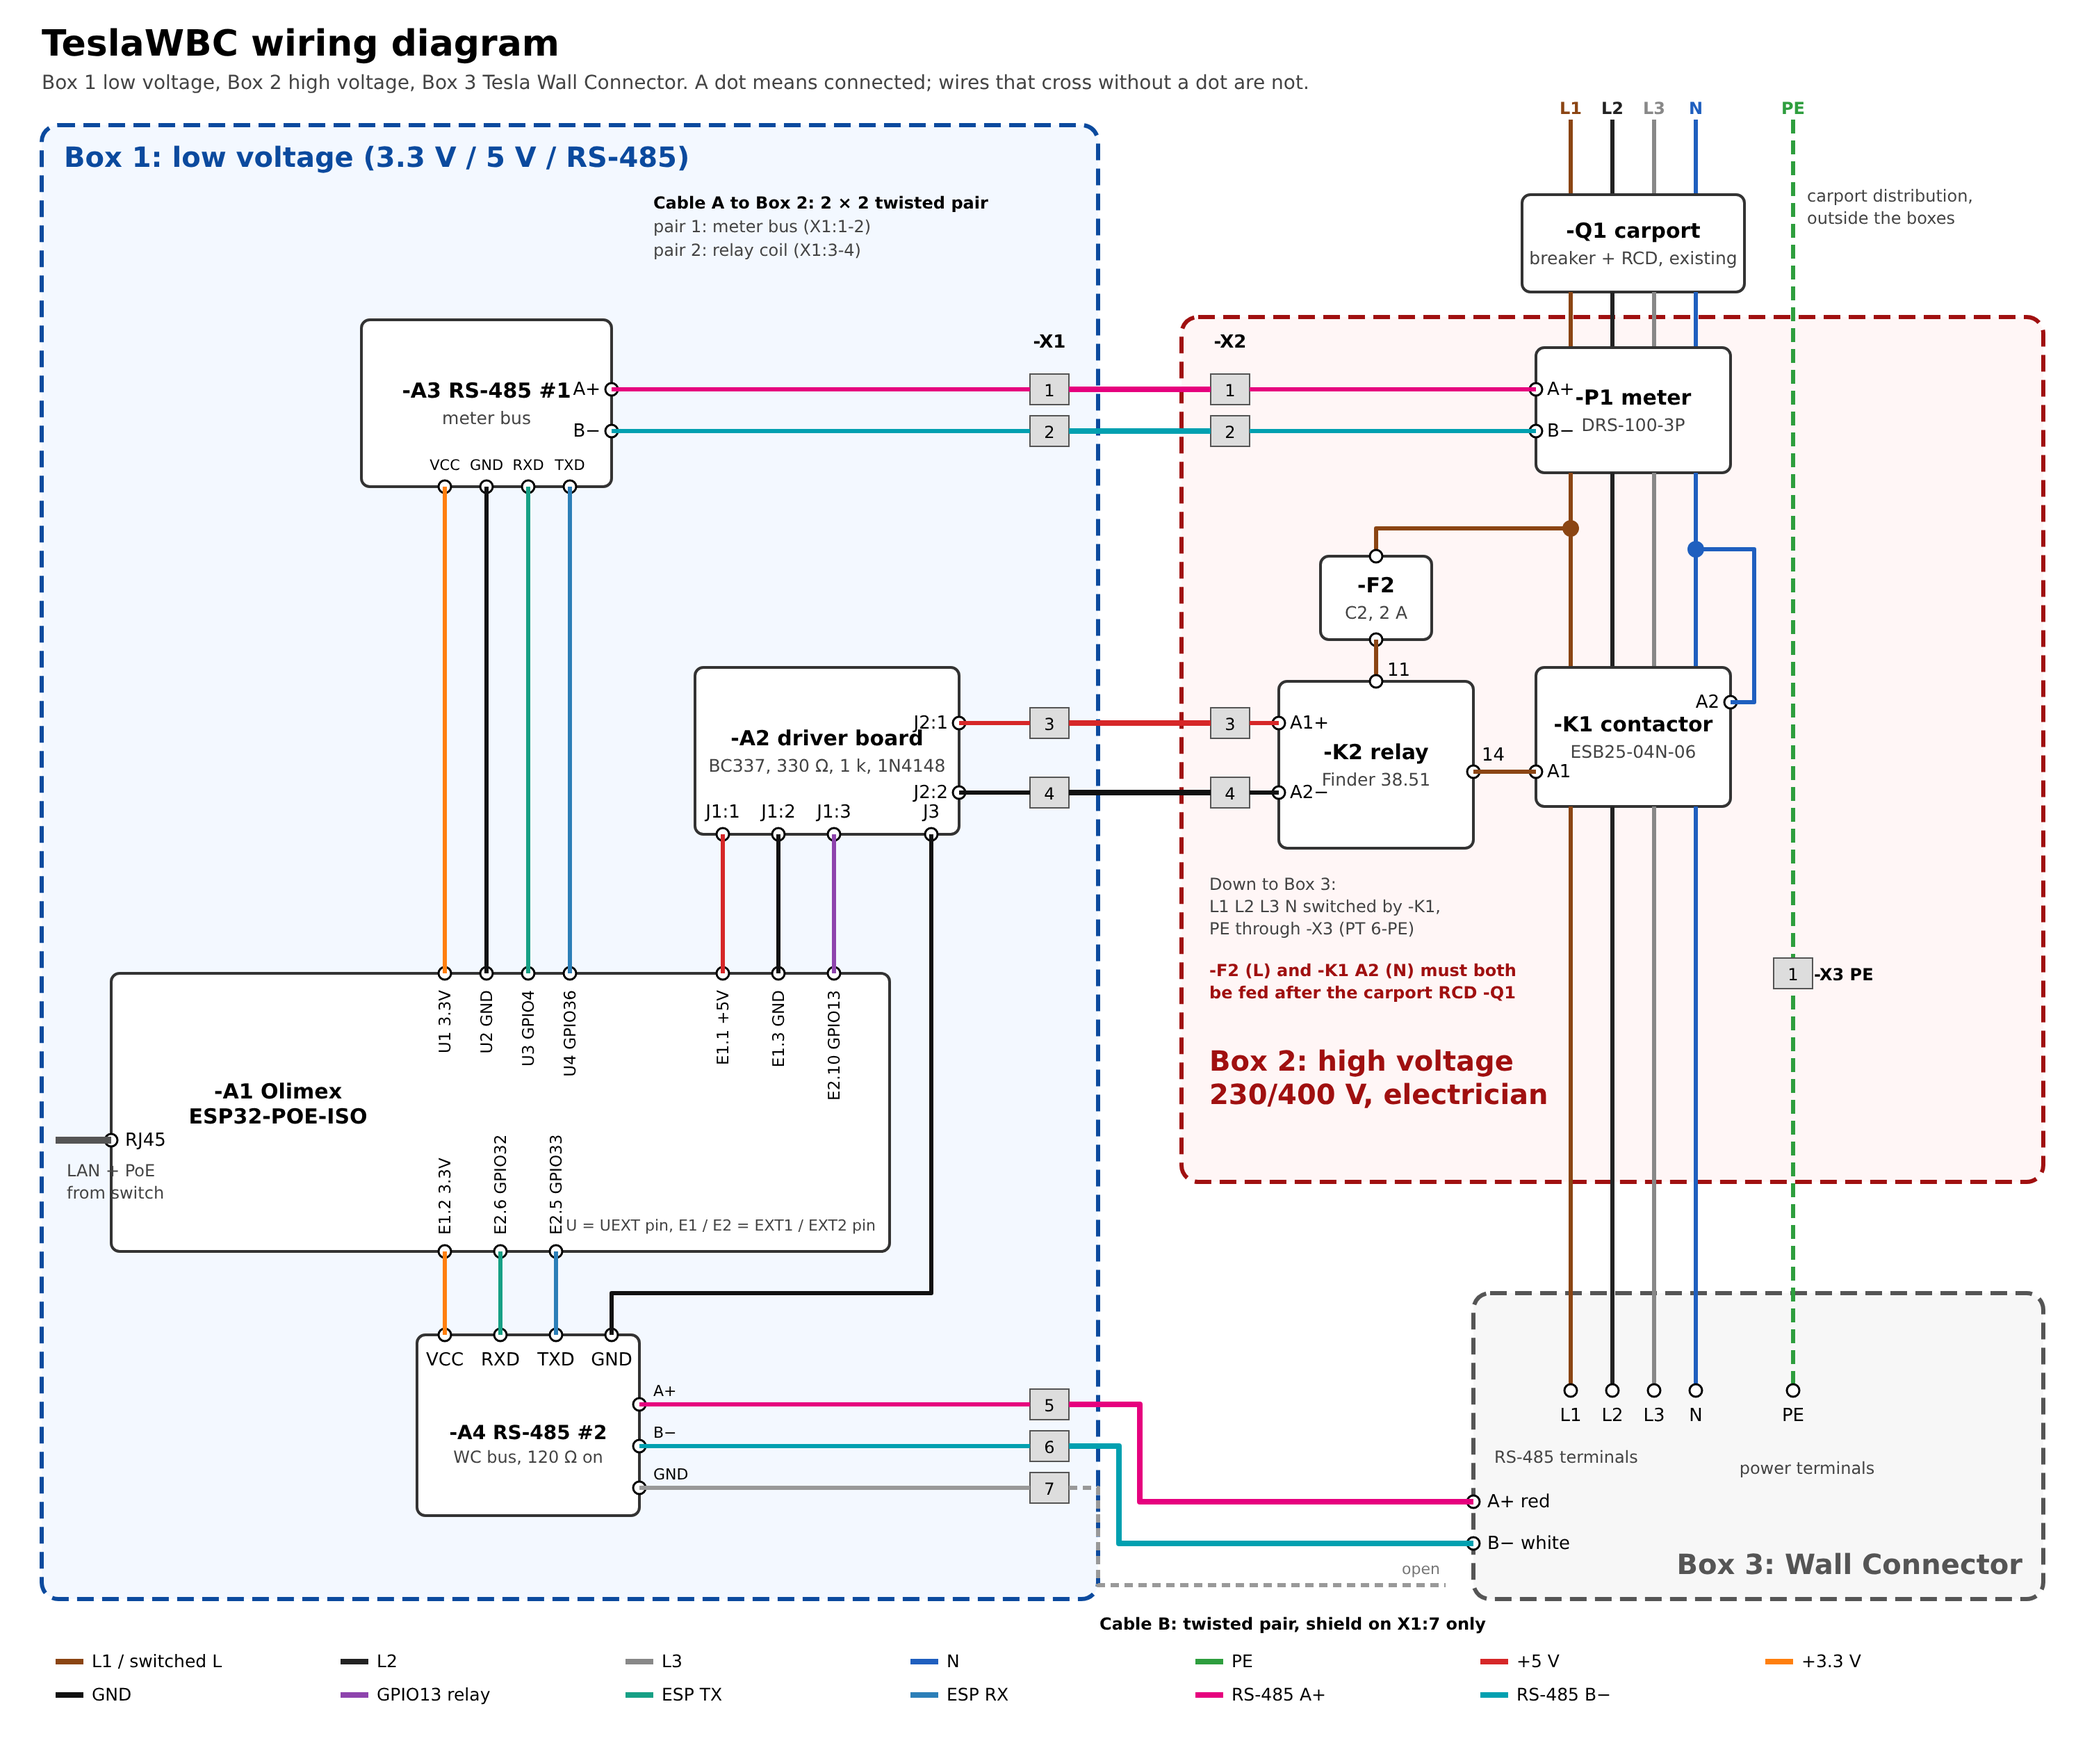
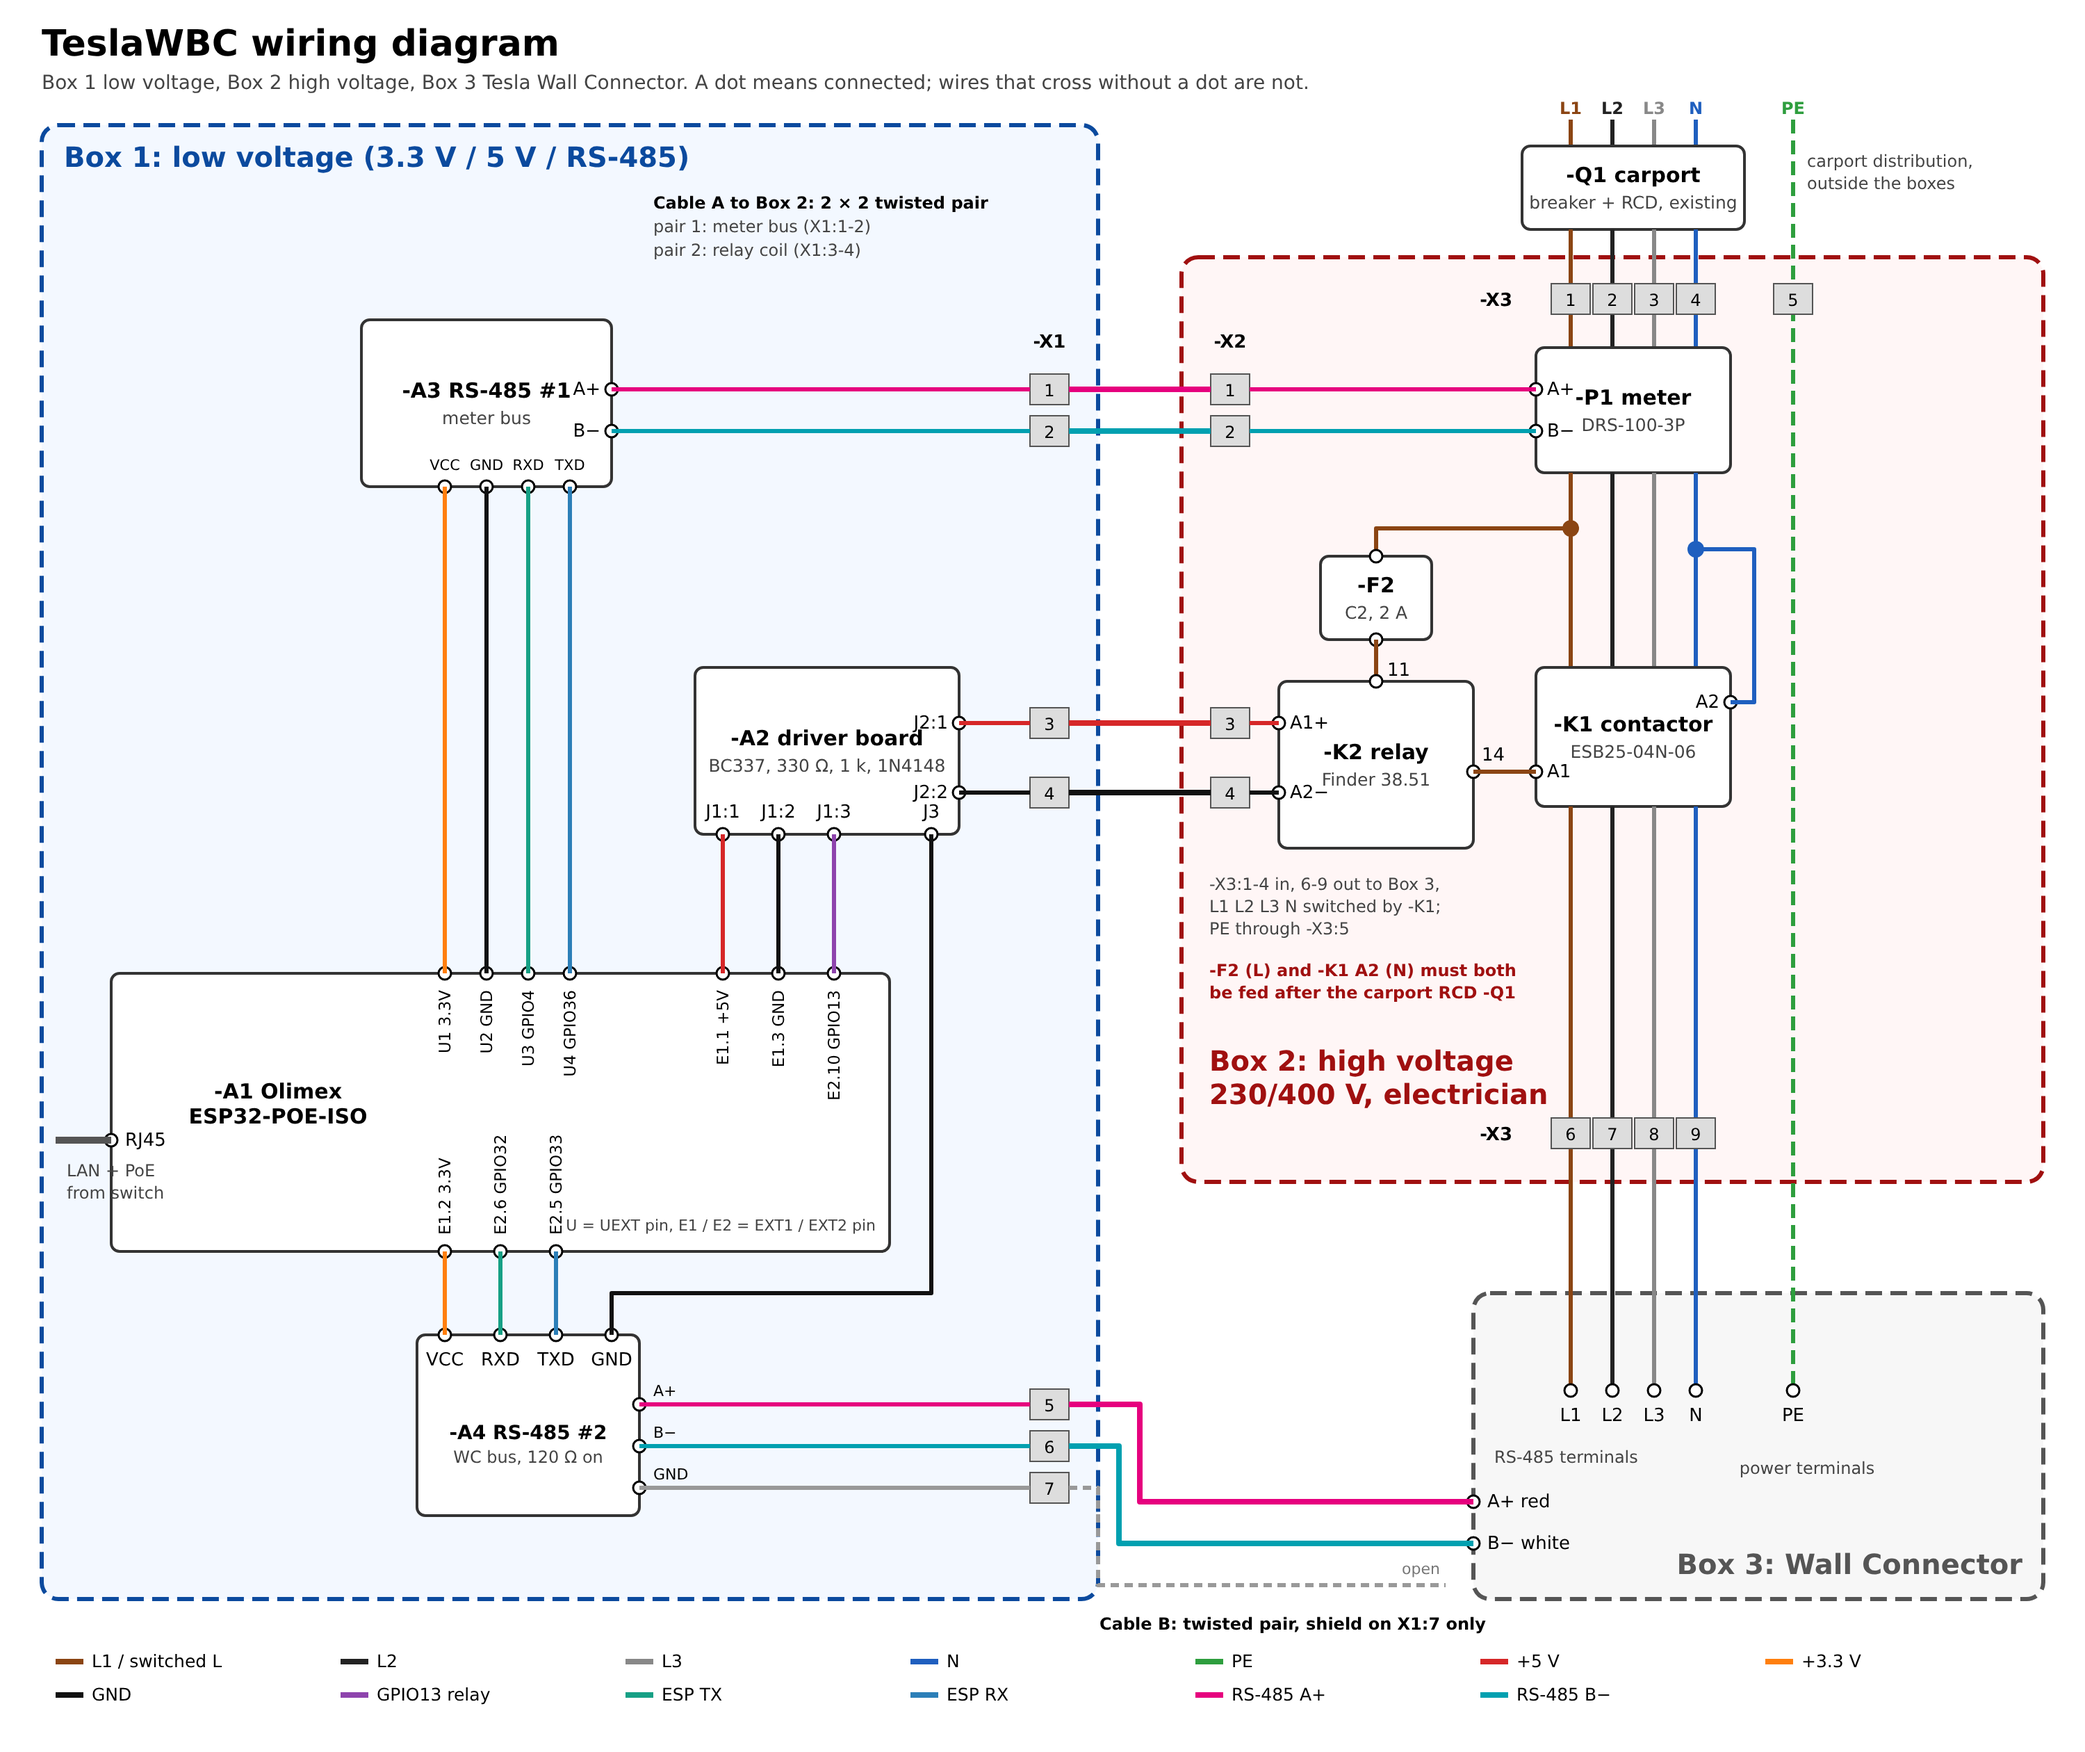
Add cabinet layout; power terminals X3 in the high-voltage box
Claude-Session: https://claude.ai/code/session_01CbK6xiVHnP2GwfvScoCUeH

diff --git a/README.md b/README.md
@@ -24,7 +24,7 @@ An ESP32 reads a dedicated energy meter on the wallbox feed and poses as the Neu
 | Meter (bus 1) | VCC / GND | 3.3 V / GND | UEXT pins 1 and 2 |
 | Charger (bus 2) | VCC / GND | 3.3 V / GND | EXT1 pin 2 / GND pin J3 on the relay driver board |
 
-Full wiring diagram (low-voltage box, high-voltage box, Wall Connector): [docs/wiring-diagram.png](docs/wiring-diagram.png).
+Full wiring diagram (low-voltage box, high-voltage box, Wall Connector): [docs/wiring-diagram.png](docs/wiring-diagram.png). Cabinet layout: [docs/cabinet-layout.png](docs/cabinet-layout.png).
 
 The ESP32's TX goes to the module's RXD input. If a bus stays silent, swapping TX and RX at the module is the first thing to try.
 
